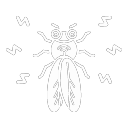
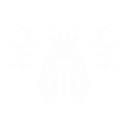
feat: セミ・ショベルカー・耳打ち・救急車のアイコンを下絵から作る
- 下絵（tools/*_src.png、白地に黒のシルエット）を白抜きにする _from_src を追加し、
  セミ・ショベルカー（工事現場）・耳打ち（ひそひそ声）・救急車を下絵ベースに変更
- セミは下絵の右側にある鳴き声のギザギザを左右反転して左にも付ける
- 生成スクリプトの説明と CLAUDE.md のファイル構成を更新

diff --git a/tools/generate_icons.py b/tools/generate_icons.py
@@ -3,7 +3,8 @@
 
 128×128 の透過 PNG を白一色で描く（jet.png のみ横長。理由は jet() を参照）。白で描くことで decibel_meter.py 側の
 BLEND_RGBA_MULT ティントがそのまま表示色になる。
-本番用イラストに差し替える場合は icons/ 内の同名ファイルを上書きすればよい。
+一部のアイコン（セミ・ショベルカー・耳打ち・救急車）は tools/*_src.png の下絵
+（白地に黒のシルエット）を白抜きにして作る。絵を変えるときは下絵を差し替えて再実行する。
 
 実行:  python tools/generate_icons.py
 """
@@ -60,82 +61,26 @@ def conversation():
     return s
 
 
+CICADA_SRC = Path(__file__).parent / "cicada_src.png"   # セミの下絵（白地に黒のシルエット、右に鳴き声）
+CICADA_AXIS_X = 201.5   # セミの左右対称軸（下絵基準、両目の中点）
+CICADA_BOLT_X = 300     # これより右にある黒い塊を鳴き声のギザギザとみなす（下絵基準）
+
+
 def cicada():
-    """セミ（上面図）+ 周囲に散る鳴き声のギザギザ。座標は 400×420 の下絵基準"""
-    k = SS * 0.3
-    ox, oy = 100, 20                              # ギザギザの分だけ下絵の外側に余白をとる
-    big = pygame.Surface((round(600 * k), round(460 * k)), pygame.SRCALPHA)
-    CUT = (0, 0, 0, 0)
+    """セミ + 左右に出る鳴き声のギザギザ（下絵は右側だけなので、左右反転して左にも付ける）"""
+    art = _from_src(CICADA_SRC)
+    src = pygame.image.load(str(CICADA_SRC))
+    dark = pygame.mask.from_threshold(src, (0, 0, 0), (128, 128, 128, 255))
+    bolts = [r for c in dark.connected_components() for r in c.get_bounding_rects()
+             if r.left >= CICADA_BOLT_X]
 
-    def P(x, y):
-        return (round((x + ox) * k), round((y + oy) * k))
-
-    def ell(x, y, rx, ry, rot=0.0, n=72):
-        a = math.radians(rot)
-        return [P(x + rx * math.cos(t) * math.cos(a) - ry * math.sin(t) * math.sin(a),
-                  y + rx * math.cos(t) * math.sin(a) + ry * math.sin(t) * math.cos(a))
-                for t in (2 * math.pi * i / n for i in range(n))]
-
-    def line(pts, w, color=W):
-        pts = [P(x, y) for x, y in pts]
-        pygame.draw.lines(big, color, False, pts, round(w * k))
-        for q in pts:
-            pygame.draw.circle(big, color, q, round(w * k / 2))
-
-    def both(pts, w, color=W):                    # 左右対称に描く
-        line(pts, w, color)
-        line([(400 - x, y) for x, y in pts], w, color)
-
-    def blob(x, y, rx, ry, rot=0.0, gap=9):       # 周りを透明で縁取ってから白で塗る
-        pygame.draw.polygon(big, CUT, ell(x, y, rx + gap, ry + gap, rot))
-        pygame.draw.polygon(big, W, ell(x, y, rx, ry, rot))
-
-    # ── 脚（6本・関節で折れ曲がる細い脚）──────────────
-    both([(165, 112), (122, 96), (104, 70), (92, 64)], 12)
-    both([(160, 150), (112, 146), (84, 164), (72, 164)], 12)
-    both([(165, 188), (120, 214), (104, 250), (94, 258)], 12)
-
-    # ── 胸（大きく丸い胸部 + 背中のアーチ模様）──────────
-    blob(200, 140, 56, 58)
-    for rx, ry, cy in ((40, 22, 142), (24, 13, 150)):
-        pygame.draw.arc(big, CUT, pygame.Rect(*P(200 - rx, cy - ry), round(2 * rx * k), round(2 * ry * k)),
-                        math.radians(20), math.radians(160), round(8 * k))
-    line([(200, 150), (200, 186)], 8, CUT)
-
-    # ── 翅（細長い翅を V 字に重ねる）─────────────────
-    blob(172, 292, 42, 118, 9)
-    blob(228, 292, 42, 118, -9)
-    for sx in (-1, 1):                            # 翅脈（抜き）
-        both_x = lambda x: 200 + sx * (200 - x)
-        vein = [(186, 196), (180, 260), (176, 330), (182, 392)]
-        line([(both_x(x), y) for x, y in vein], 7, CUT)
-        for (x0, y0), (x1, y1) in (((180, 262), (156, 300)), ((178, 300), (158, 344)),
-                                   ((176, 336), (160, 376))):
-            line([(both_x(x0), y0), (both_x(x1), y1)], 7, CUT)
-
-    # ── 頭・触角・複眼 ─────────────────────────────
-    blob(200, 80, 40, 20)
-    both([(188, 70), (180, 46), (164, 32)], 11)
-    for sx in (-1, 1):
-        ex = 200 + sx * 36
-        pygame.draw.circle(big, CUT, P(ex, 72), round(28 * k))
-        pygame.draw.circle(big, W, P(ex, 72), round(20 * k))
-        pygame.draw.circle(big, CUT, P(ex, 72), round(12 * k))
-        pygame.draw.circle(big, W, P(ex, 73), round(6 * k))
-
-    # ── 鳴き声（左右に散るギザギザ）─────────────────
-    for sx in (-1, 1):
-        for ang in (40, 0, -40):                  # 胸の中心から見た方向（右側基準）
-            t = math.radians(ang if sx > 0 else 180 - ang)
-            ux, uy = math.cos(t), -math.sin(t)
-            vx, vy = -uy, ux
-            x0, y0 = 200 + ux * 150, 200 + uy * 150
-            pts = [(x0, y0),
-                   (x0 + ux * 20 + vx * 14, y0 + uy * 20 + vy * 14),
-                   (x0 + ux * 24 - vx * 14, y0 + uy * 24 - vy * 14),
-                   (x0 + ux * 46, y0 + uy * 46)]
-            line(pts, 14)
-
+    pad = 80                                                   # 左のギザギザを置く余白
+    big = pygame.Surface((art.get_width() + pad, art.get_height()), pygame.SRCALPHA)
+    big.blit(art, (pad, 0))
+    for r in bolts:
+        r = r.inflate(6, 6)                                    # 縁のアンチエイリアスも含める
+        piece = pygame.transform.flip(art.subsurface(r.clip(art.get_rect())), True, False)
+        big.blit(piece, (pad + round(2 * CICADA_AXIS_X) - r.right, r.top))
     return _fit(big)
 
 
@@ -150,25 +95,34 @@ def _fit(big):
     return s
 
 
+CONSTRUCTION_SRC = Path(__file__).parent / "construction_src.png"   # ショベルカーの下絵（白地に黒のシルエット）
+
+
+def _from_src(path, min_area=0):
+    """白地に黒の下絵を白抜きにする（黒いほど不透明）。min_area 未満の黒い塊（px、下絵基準）は消す"""
+    src = pygame.image.load(str(path))
+    ink = 255 - pygame.surfarray.array3d(src).mean(axis=2)
+    ink = (ink - 40) * 255 / (215 - 40)                   # 地のわずかな灰色（圧縮ノイズ）を透明にする
+    if min_area:
+        dark = pygame.mask.from_threshold(src, (0, 0, 0), (128, 128, 128, 255))
+        for comp in dark.connected_components():
+            if comp.count() < min_area:
+                grown = pygame.mask.Mask(comp.get_size())
+                grown.draw(comp, (0, 0))
+                for dx in range(-4, 5):                     # 縁のアンチエイリアスも消す
+                    for dy in range(-4, 5):
+                        grown.draw(comp, (dx, dy))
+                hit = pygame.surfarray.array3d(grown.to_surface())[..., 0] > 0
+                ink[hit] = 0
+    big = pygame.Surface(src.get_size(), pygame.SRCALPHA)
+    big.fill(W)
+    pygame.surfarray.pixels_alpha(big)[:] = ink.clip(0, 255).astype("uint8")
+    return big
+
+
 def construction():
-    """ブルドーザー（工事現場）"""
-    s = new_surf()
-    # クローラー（履帯）
-    pygame.draw.rect(s, W, pygame.Rect(26, 94, 82, 24), border_radius=12)
-    for cx in (42, 60, 78, 96):                                       # 転輪（穴）
-        pygame.draw.circle(s, (0, 0, 0, 0), (cx, 108), 6)
-    # 車体（エンジンフード）
-    pygame.draw.polygon(s, W, [(40, 80), (48, 62), (90, 62), (90, 94), (40, 94)])
-    # 運転席（キャブ）
-    pygame.draw.rect(s, W, pygame.Rect(64, 44, 28, 20), border_radius=3)
-    pygame.draw.rect(s, (0, 0, 0, 0), pygame.Rect(70, 50, 14, 12))    # 窓（抜き）
-    # 排気筒
-    pygame.draw.rect(s, W, pygame.Rect(54, 46, 7, 18))
-    pygame.draw.rect(s, W, pygame.Rect(52, 42, 11, 6), border_radius=2)  # キャップ
-    # 排土板（ブレード）
-    pygame.draw.polygon(s, W, [(20, 58), (32, 62), (32, 104), (26, 112), (14, 108), (12, 64)])
-    pygame.draw.line(s, W, (32, 90), (50, 80), 7)                     # プッシュアーム
-    return s
+    """ショベルカー + 砕ける岩 + 衝撃のギザギザ（下絵のシルエットを白抜きにしたもの）"""
+    return _fit(_from_src(CONSTRUCTION_SRC))
 
 
 def horn():
@@ -186,43 +140,20 @@ def horn():
     return s
 
 
+WHISPER_SRC = Path(__file__).parent / "whisper_src.png"   # 耳打ちの下絵（白地に黒のシルエット）
+
+
 def whisper():
-    """口元に人差し指（ひそひそごえ）"""
-    s = new_surf()
-    # 顔
-    pygame.draw.circle(s, W, (64, 64), 46)
-    # 目（閉じた目・抜き）
-    for ex in (46, 82):
-        pygame.draw.arc(s, (0, 0, 0, 0), pygame.Rect(ex - 9, 46, 18, 14),
-                        math.pi, 2 * math.pi, 4)
-        pygame.draw.circle(s, (0, 0, 0, 0), (ex, 52), 6)
-    # 人差し指（抜きの縁取りの中に白い指）
-    pygame.draw.rect(s, (0, 0, 0, 0), pygame.Rect(53, 64, 22, 60), border_radius=11)
-    pygame.draw.rect(s, W, pygame.Rect(58, 69, 12, 52), border_radius=6)
-    return s
+    """耳打ちする人と聞く人（ひそひそ話）。下絵にある声の三本線は小さい塊として取り除く"""
+    return _fit(_from_src(WHISPER_SRC, min_area=2000))
+
+
+AMBULANCE_SRC = Path(__file__).parent / "ambulance_src.png"   # 救急車の下絵（白地に黒のシルエット）
 
 
 def ambulance():
-    """救急車 + サイレン音波（きゅうきゅうしゃのサイレン）"""
-    s = new_surf()
-    # 荷室（箱）
-    pygame.draw.rect(s, W, pygame.Rect(8, 52, 74, 46), border_radius=4)
-    # キャブ（前部）
-    pygame.draw.polygon(s, W, [(82, 62), (104, 62), (116, 78), (116, 98), (82, 98)])
-    pygame.draw.rect(s, (0, 0, 0, 0), pygame.Rect(88, 68, 16, 12))     # 窓（抜き）
-    # 十字マーク（抜き）
-    pygame.draw.rect(s, (0, 0, 0, 0), pygame.Rect(39, 60, 10, 30))
-    pygame.draw.rect(s, (0, 0, 0, 0), pygame.Rect(29, 70, 30, 10))
-    # 車輪
-    for cx in (30, 98):
-        pygame.draw.circle(s, W, (cx, 102), 11)
-        pygame.draw.circle(s, (0, 0, 0, 0), (cx, 102), 5)
-    # 回転灯 + サイレン音波
-    pygame.draw.rect(s, W, pygame.Rect(38, 40, 12, 12), border_radius=3)
-    for r in (12, 20, 28):
-        pygame.draw.arc(s, W, pygame.Rect(44 - r, 38 - r, r * 2, r * 2),
-                        math.pi / 6, 5 * math.pi / 6, 4)
-    return s
+    """救急車 + 回転灯の光 + サイレン音波（下絵のシルエットを白抜きにしたもの）"""
+    return _fit(_from_src(AMBULANCE_SRC))
 
 
 SS = 4   # jet() は 4 倍の解像度で描いて縮小する（斜めの輪郭をなめらかにするため）

diff --git a/CLAUDE.md b/CLAUDE.md
@@ -109,5 +109,6 @@ requirements.txt         # 依存パッケージ
 calibration.json         # キャリブレーション保存（自動生成、校正時のデバイス名も保存）
 specification.md         # 企画仕様書
 icons/                   # 騒音レベルラベル用アイコン（白ピクトグラム PNG、同名差し替え可）
-tools/generate_icons.py  # 仮アイコンの生成スクリプト
+tools/generate_icons.py  # アイコンの生成スクリプト（python tools/generate_icons.py で icons/ を再生成）
+tools/*_src.png          # 下絵から作るアイコンの元画像（白地に黒のシルエット）
 ```
